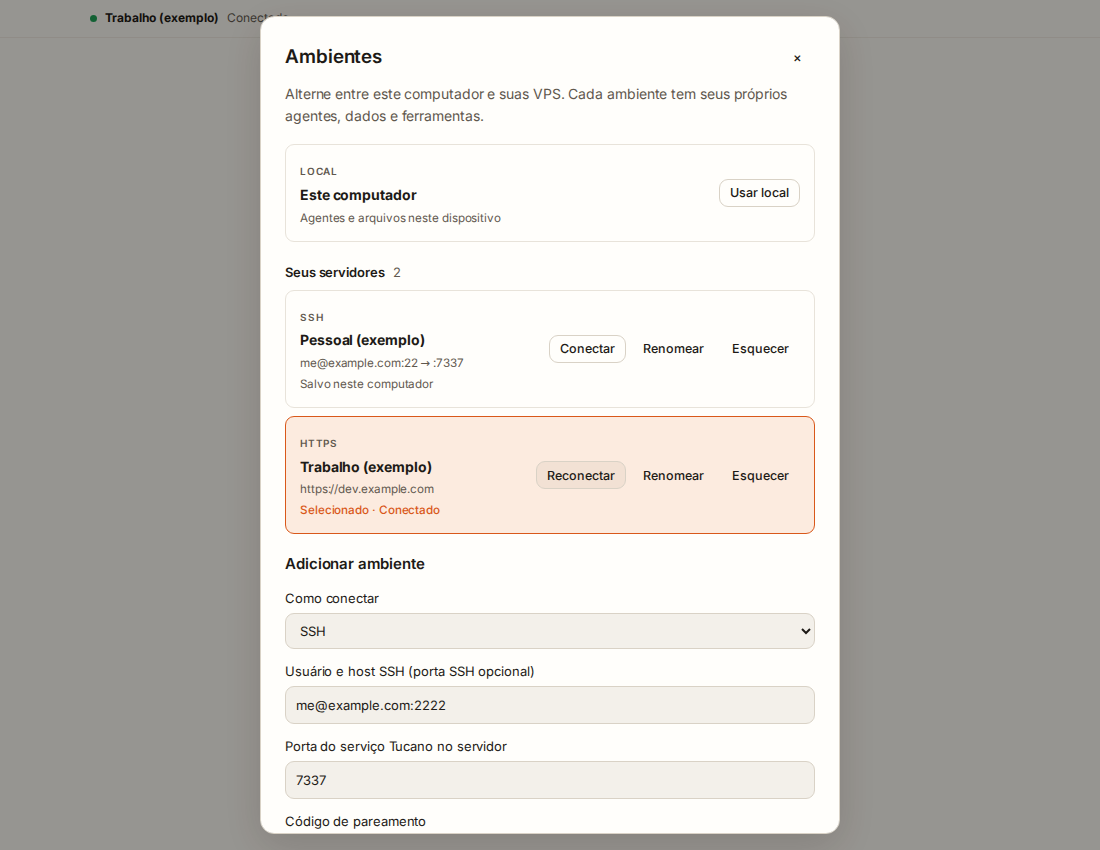
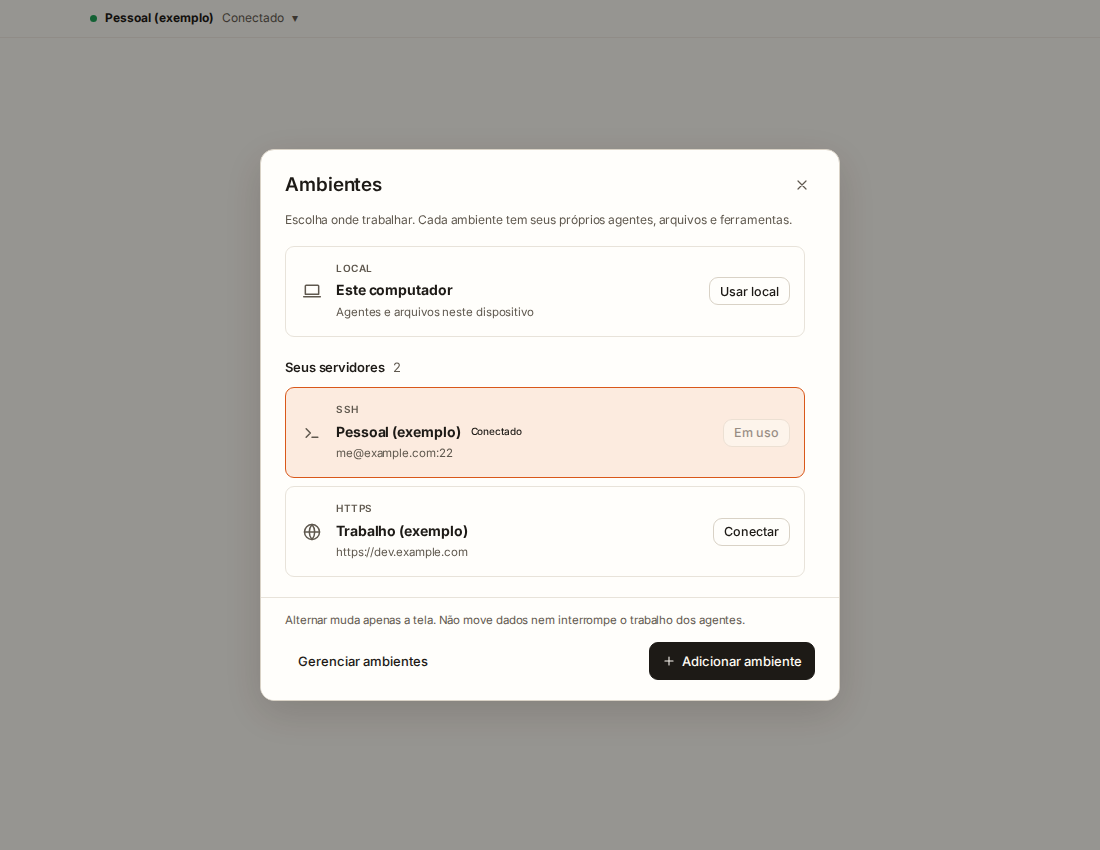
Refresh environment screenshots and stabilize resize checks

Changed region(s): [[0.2164, 0.3059, 0.7727, 1.0], [0.0927, 0.0, 0.7727, 0.2753], [0.6491, 0.3365, 0.7109, 0.3671]]

diff --git a/docs/remote-ui.md b/docs/remote-ui.md
@@ -1,23 +1,23 @@
 # Remote environment UI
 
-These screenshots show the production renderer captured by the [connection picker UI check](https://github.com/JulioAkaminee/tucano/actions/runs/41615573295) at commit `499cf5299a0c963b0ecb40deb143ac370a1eec3e`.
+These screenshots show the production renderer captured by the [connection picker UI check](https://github.com/JulioAkaminee/tucano/actions/runs/41627186982) at commit `cb959b3be94ab8117da1f886e02147ef63dc8c97`.
 
 Profiles, addresses and pairing codes are synthetic test fixtures. The connected badge is an exercised UI state, **not evidence of a live connection to a user's VPS**. Protocol/SSH and service tests run separately; see [validation](remote-validation.md).
 
 ## Personal and Work environments
 
-Local remains available beside independently named servers. The selected environment and connection state are visible, with connect/reconnect, rename and forget actions.
+Local remains available beside independently named servers in a compact picker. The connected environment shows In use; other servers have Connect or Reconnect. Add and Manage open separate views, with actions pinned below the scrollable content. Renaming and forgetting are in Manage.
 
 ![Personal and Work example profiles in the environment picker](images/remote-environments.png)
 
 ## Explicit pairing
 
-The form reviews the destination before pairing. SSH uses an existing authorized key and verified host; direct remote URLs require HTTPS. The synthetic pairing code is masked.
+The separate Add form explains the server command and reviews the destination before pairing. Its review and confirmation remain below the scrollable form. SSH uses an existing authorized key and verified host; direct remote URLs require HTTPS. The synthetic pairing code is masked.
 
 ![SSH pairing form with destination review and masked demonstration code](images/remote-pairing.png)
 
 ## Offline recovery
 
-An unavailable environment remains visible, with reconnect and return-to-Local controls. Specific identity, keychain and HTTPS policy failures provide sanitized recovery guidance.
+An unavailable environment remains visible, with reconnect and return-to-Local controls. A failed attempt to another environment does not change the health of the active workspace. Specific identity, keychain and HTTPS policy failures provide sanitized recovery guidance.
 
 ![Offline example environment with recovery actions](images/remote-offline.png)
